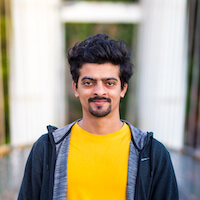
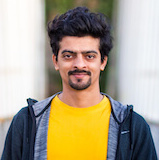
Basic profile neumorphism

diff --git a/src/components/profileLogo.js b/src/components/profileLogo.js
@@ -1,141 +1,15 @@
 import React from 'react';
-import styled, { keyframes } from 'styled-components';
+import styled from 'styled-components';
 import Img from 'gatsby-image';
-import { Spin } from '../utils/keyframes';
-
-const Wiggle = keyframes`
-  0% {
-    transform: scale(0.85) translate3d(-3px, 3px, 0);
-  }
-  33.33% {
-    transform: translate3d(3px, -3px, 0);
-  }
-  66.66% {
-    transform: translate3d(-3px, -3px, 0);
-  }
-  100% {
-    transform: scale(0.95) translate3d(3px, 3px, 0);
-  }
-`;
-
-const MorphShadow = keyframes`
-  0% {
-    box-shadow: 0 0 0 0 var(--color-light-op-1),
-      0 0 0 0 var(--color-light-op-2), 0 0 0 0 var(--color-light-op-3);
-  }
-  100% {
-    box-shadow: 0 0 0 10px var(--color-transparent),
-      0 0 0 25px var(--color-transparent), 0 0 0 45px var(--color-transparent);
-  }
-`;
-
-const MorphShadowMobile = keyframes`
-  0% {
-    box-shadow: 0 0 0 0 var(--color-light-op-1),
-      0 0 0 0 var(--color-light-op-2), 0 0 0 0 var(--color-light-op-3);
-  }
-  100% {
-    box-shadow: 0 0 0 10px var(--color-transparent),
-      0 0 0 17px var(--color-transparent), 0 0 0 25px var(--color-transparent);
-  }
-`;
-
-const MorphRest = keyframes`
-  0% {
-    transform: scale(0.95);
-    border-radius: 50%;
-    border-radius: 40% 60% 40% 60% / 35% 30% 70% 65%;
-  }
-  100% {
-    transform: scale(1.1);
-    border-radius: 50%;
-    border-radius: 35% 65% 55% 45% / 48% 48% 52% 52%;
-  }
-`;
-
-const UserLogoBGCommon = styled.div`
-  position: absolute;
-  width: 100%;
-  height: 100%;
-  left: 0;
-  top: 0;
-  z-index: -1;
-`;
-
-const UserLogoBG = styled(UserLogoBGCommon)`
-  overflow: hidden;
-  border-radius: 40% 60% 40% 60% / 35% 30% 70% 65%;
-  animation: ${MorphRest} 8s ease-in-out infinite both alternate,
-    ${MorphShadowMobile} 8s ease-in-out infinite both alternate;
-
-  @media screen and (min-width: 768px) {
-    animation: ${MorphRest} 8s ease-in-out infinite both alternate,
-      ${MorphShadow} 8s ease-in-out infinite both alternate;
-  }
-`;
-
-const UserLogoBGRotate = styled(UserLogoBGCommon)`
-  @media screen and (min-width: 768px) {
-    animation: ${Spin} 12s linear infinite;
-  }
-`;
-
-const UserLogoImageWrapper = styled(UserLogoBGCommon)`
-  @media screen and (min-width: 768px) {
-    animation: ${Spin} 12s linear infinite reverse;
-  }
-`;
-
-const UserLogoImage = styled(UserLogoBGCommon)`
-  width: 116%;
-  height: 116%;
-  left: -8%;
-  top: -8%;
-  border-radius: 40% 60% 40% 60% / 35% 30% 70% 65%;
-  opacity: 0;
-  transform: scale(1) rotate(-10deg) translateY(10%);
-  filter: grayscale(100%);
-  transition: opacity 0.1s ease-out, transform 0.2s ease-out,
-    border-radius 0.1s ease-out, filter 0.2s ease-out;
-`;
-
-const UserLogo = styled.div`
-  width: 120px;
-  height: 120px;
-  padding: 30px 18px;
-  text-align: center;
-  position: relative;
-  margin: 0 auto;
-
-  @media screen and (min-width: 768px) {
-    width: 160px;
-    height: 160px;
-  }
-
-  ${UserLogoImage} {
-    opacity: 1;
-    transform: scale(1) rotate(0deg) translateY(0);
-    filter: grayscale(0%);
-    border-radius: 50%;
-    transition: opacity 0.15s ease-in, transform 0.15s ease-in,
-      border-radius 0.2s ease-in, filter 0.2s ease-in;
-    transition-delay: 0.2s;
-  }
-
-  svg {
-    animation: ${Wiggle} 10s ease-out infinite both alternate;
-  }
-`;
 
 const Wrapper = styled.div`
-  width: 160px;
-  height: 120px;
-  margin: 30px 0 25px -15px;
+  min-width: 200px;
+  padding-right: 2rem;
 
-  @media screen and (min-width: 768px) {
-    margin: 50px 0 25px 0;
-    width: 200px;
-    height: 160px;
+  .profile-logo {
+    border-radius: 40% 60% 40% 60% / 35% 30% 70% 65%;
+    overflow: hidden;
+    border: 10px solid var(--color-dark);
   }
 `;
 
@@ -151,18 +25,10 @@ export default function ProfileLogo({ profileLogo }) {
     : [];
 
   return (
-    <Wrapper className="animated fadeIn">
-      <UserLogo>
-        <UserLogoBGRotate>
-          <UserLogoBG>
-            <UserLogoImageWrapper>
-              <UserLogoImage>
-                {profileLogo ? <Img fluid={sources} /> : null}
-              </UserLogoImage>
-            </UserLogoImageWrapper>
-          </UserLogoBG>
-        </UserLogoBGRotate>
-      </UserLogo>
+    <Wrapper>
+      <div className="neumorphism profile-logo">
+        {profileLogo ? <Img fluid={sources} /> : null}
+      </div>
     </Wrapper>
   );
 }

diff --git a/src/templates/blog-index.js b/src/templates/blog-index.js
@@ -10,7 +10,6 @@ const CoverImage = styled.div`
   width: 100%;
   margin-bottom: ${rhythm(0.5)};
   overflow: hidden;
-  box-shadow: 0 1px 2px var(--color-light-op-1);
   transition: all 0.2s ease-in-out;
 `;
 
@@ -18,16 +17,16 @@ const Article = styled.article`
   cursor: pointer;
   padding: 1rem;
   margin-bottom: ${rhythm(1.5)};
-
-  @media screen and (min-width: 768px) {
-    background: var(--color-ultra-dark);
-    box-shadow: 0 0 2px var(--color-light-op-1);
-  }
+  border-radius: 20px;
 
   @media screen and (max-width: 767px) {
     padding: 0.5rem 1rem;
     margin: 0 -1rem;
     margin-bottom: ${rhythm(1)};
+  }
+
+  ${CoverImage} {
+    border-radius: 14px;
   }
 
   @media screen and (hover: hover) and (pointer: fine) {
@@ -36,11 +35,6 @@ const Article = styled.article`
     &:hover {
       transition: transform 0.2s ease-in-out;
       transform: translateY(-2px);
-
-      ${CoverImage} {
-        width: calc(100% + 4rem);
-        margin: -2rem -2rem ${rhythm(0.5)} -2rem;
-      }
     }
   }
 
@@ -74,6 +68,7 @@ class BlogIndex extends React.Component {
             const title = post.frontmatter.title || post.fields.slug;
             return (
               <Article
+                className="neumorphism"
                 key={post.fields.slug}
                 // Skipping keyboard navigation as link inside will handle it
                 onClick={() => this.props.navigate(post.fields.slug)}>

diff --git a/src/utils/globalStyles.js b/src/utils/globalStyles.js
@@ -8,24 +8,26 @@ body {
     level and handled subsequently in accentSwitcher component
   */
   --color-dark: #ecf0f3;
-  --color-dark-2: #d1d9e6;
+  --color-dark-2: #d4d8db;
   --color-ultra-dark: #fff;
-  --color-light: #141415;
-  --color-light-2: #050505;
-  --color-ultra-light: #000;
+  --color-light: #22252B;
+  --color-light-2: #1b1e22;
+  --color-ultra-light: #292c34;
   --color-light-dark: #909295;
   --color-light-op-1: rgba(0, 0, 0, 0.2);
   --color-light-op-2: rgba(0, 0, 0, 0.1);
   --color-light-op-3: rgba(0, 0, 0, 0.05);
   --color-transparent: transparent;
+  --neumorphism-shadow: 15px 15px 24px var(--color-dark-2),
+      -15px -15px 24px var(--color-ultra-dark);
 }
 
 body.dark {
-  --color-dark: #141415;
-  --color-dark-2: #050505;
-  --color-ultra-dark: #000;
+  --color-dark: #1c1e24;
+  --color-dark-2: #16181d;
+  --color-ultra-dark: #22242b;
   --color-light: #ecf0f3;
-  --color-light-2: #d1d9e6;
+  --color-light-2: #d4d8db;
   --color-ultra-light: #fff;
   --color-light-dark: #747475;
   --color-light-op-1: rgba(255, 255, 255, 0.2);
@@ -80,8 +82,7 @@ noscript#gatsby-noscript {
 
 .neumorphism {
   background: var(--color-dark);
-  box-shadow: 12px 12px 20px var(--color-dark-2),
-      -12px -12px 20px var(--color-ultra-dark);
+  box-shadow: var(--neumorphism-shadow);
 }
 
 /**

diff --git a/src/templates/blog-post.js b/src/templates/blog-post.js
@@ -34,7 +34,7 @@ const Ul = styled.ul`
 const CoverImage = styled.div`
   margin-top: ${rhythm(1.8)};
   margin-bottom: ${rhythm(1.8)};
-  box-shadow: 0 0 2px var(--color-light-op-1);
+  border-radius: 14px;
 
   @media screen and (min-width: 768px) {
     margin-bottom: ${rhythm(2.5)};
@@ -99,7 +99,7 @@ class BlogPostTemplate extends React.Component {
               </PostInfo>
             </header>
             {post.frontmatter.cover ? (
-              <CoverImage>
+              <CoverImage className="neumorphism">
                 <Img fluid={post.frontmatter.cover.childImageSharp.fluid} />
               </CoverImage>
             ) : null}

diff --git a/src/components/aboutMe.js b/src/components/aboutMe.js
@@ -11,21 +11,23 @@ const Div = styled.div`
 
   @media screen and (min-width: 768px) {
     flex-direction: row;
-    align-items: center;
   }
 `;
 
 const ProfileInfo = styled.div`
-  @media screen and (min-width: 768px) {
+  padding: 2rem;
+  border-radius: 20px;
+
+  /* @media screen and (min-width: 768px) {
     padding-left: 50px;
-  }
+  } */
 `;
 
 const AboutMe = ({ profileLogo }) => {
   return (
     <Div>
       <ProfileLogo profileLogo={profileLogo} />
-      <ProfileInfo>
+      <ProfileInfo className="neumorphism">
         <DevInfo />
         <ProfileLinks />
       </ProfileInfo>

diff --git a/src/components/accentSwitcher.js b/src/components/accentSwitcher.js
@@ -45,8 +45,7 @@ const AccentToggle = styled.div`
     top: 38px;
     border: none !important;
     background: var(--color-dark) !important;
-    box-shadow: 12px 12px 20px var(--color-dark-2),
-      -12px -12px 20px var(--color-ultra-dark) !important;
+    box-shadow: var(--neumorphism-shadow) !important;
 
     > div:first-child {
       border: none !important;

diff --git a/src/components/header.js b/src/components/header.js
@@ -44,12 +44,12 @@ const HeaderWrapper = styled.div`
 
 const LogoWrapper = styled.div`
   background: var(--color-dark);
-  border-radius: 50%;
   width: 60px;
   height: 60px;
   display: flex;
   align-items: center;
   justify-content: center;
+  border-radius: 50%;
   border-radius: 40% 60% 40% 60% / 35% 30% 70% 65%;
 
   svg {

diff --git a/src/components/SwitcherButton.js b/src/components/SwitcherButton.js
@@ -5,6 +5,7 @@ const SwitcherButton = styled.div`
   padding: 10px;
   margin-left: 2rem;
   border-radius: 50%;
+  border-radius: 40% 60% 40% 60% / 35% 30% 70% 65%;
   width: 44px;
   height: 44px;
   cursor: pointer;
